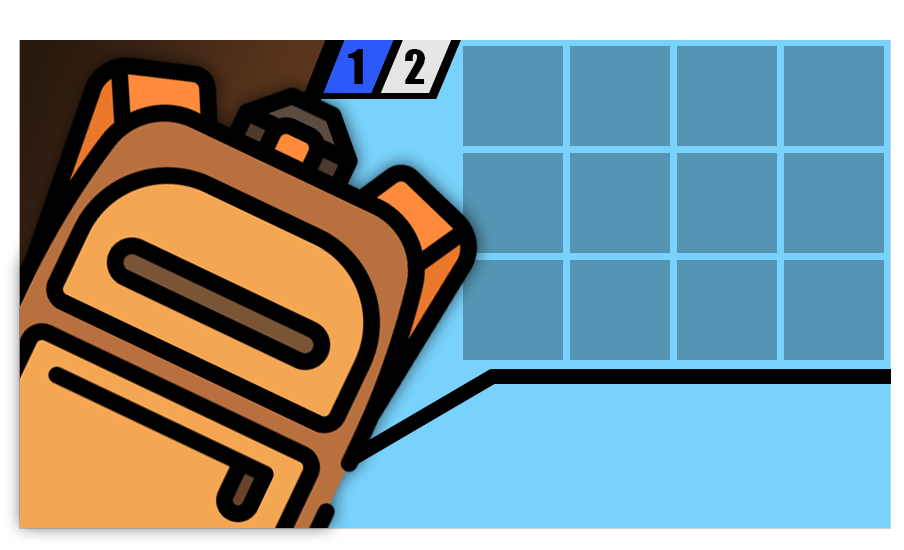
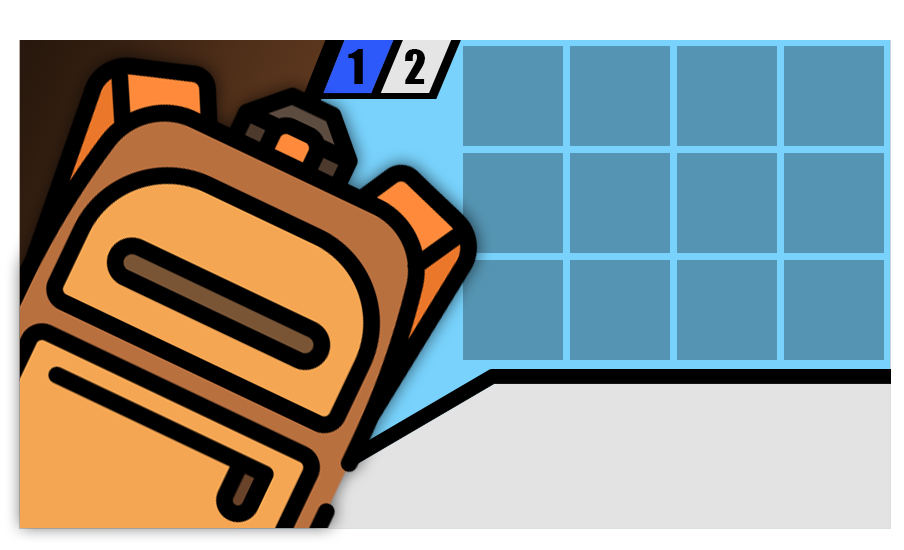
add description  item name for sac d'objets

Changed region(s): [[0.3407, 0.68, 0.9912, 0.9582]]

diff --git a/sac.py b/sac.py
@@ -1,4 +1,5 @@
 import pygame
+pygame.font.init()
 
 
 class SacIngamePanel:
@@ -13,6 +14,10 @@ class SacIngamePanel:
         self.page2_hover = pygame.image.load("assets/game/ingame_windows/Sac d'objets/page2_hover.png")
         self.page1_rect = pygame.Rect(331, 40, 52, 52)
         self.page2_rect = pygame.Rect(387, 40, 52, 52)
+
+        self.quantite_font = pygame.font.Font('assets/fonts/Impact.ttf', 30)
+        self.title_item_font = pygame.font.Font('assets/fonts/Impact.ttf', 45)
+        self.desc_item_font = pygame.font.Font('assets/fonts/Oswald-Regular.ttf', 20)
 
         self.ALL_EMP_RECT = {
             1: pygame.Rect(463, 46, 100, 100),
@@ -44,6 +49,7 @@ class SacIngamePanel:
             12: pygame.Rect(784, 260, 100, 100)
         }
         self.page = 1
+        self.selected_item = None
 
         self.emp_move_mode = False
         self.emp_moving = [False, False, False, False, False, False, False, False, False, False, False, False]
@@ -75,6 +81,18 @@ class SacIngamePanel:
         self.update_emp(surface, possouris, window_pos, 11)
         self.update_emp(surface, possouris, window_pos, 12)
         self.update_rect_pos(window_pos)
+
+        if self.selected_item is not None:
+            surface.blit(self.title_item_font.render(self.selected_item.name_to_blit.upper(), False, (0, 0, 0)),
+                         (window_pos[0] + (885-self.title_item_font.render(self.selected_item.name_to_blit.upper(), False, (0, 0, 0)).get_rect().w), window_pos[1] + 380))
+
+            item_desc_lines = self.reformate_item_desc(self.selected_item.description)
+            surface.blit(self.desc_item_font.render(str(item_desc_lines[0]), False, (20, 20, 20)),
+                         (window_pos[0] + (885-self.desc_item_font.render(str(item_desc_lines[0]), False, (0, 0, 0)).get_rect().w), window_pos[1] + 430))
+            surface.blit(self.desc_item_font.render(str(item_desc_lines[1]), False, (20, 20, 20)),
+                         (window_pos[0] + (885-self.desc_item_font.render(str(item_desc_lines[1]), False, (0, 0, 0)).get_rect().w), window_pos[1] + 455))
+            surface.blit(self.desc_item_font.render(str(item_desc_lines[2]), False, (20, 20, 20)),
+                         (window_pos[0] + (885-self.desc_item_font.render(str(item_desc_lines[2]), False, (0, 0, 0)).get_rect().w), window_pos[1] + 480))
 
     def update_rect_pos(self, window_pos):
         self.ALL_EMP_RECT = {
@@ -129,6 +147,7 @@ class SacIngamePanel:
                     self.emp_moving[i-1] = True
                     self.rel_possouris = [0, 0]
                     self.saved_posouris = possouris
+                    self.selected_item = current_page[i-1]
 
             if self.emp_move_mode and self.emp_moving[i-1]:
                 if not self.game.mouse_pressed[1]:
@@ -170,6 +189,13 @@ class SacIngamePanel:
         if self.page == 1:
             if self.game.player.sac_page1[i-1] is not None:
                 surface.blit(pygame.transform.scale(self.game.player.sac_page1[i-1].icon_image, (100, 100)), self.all_emp_rect[i])
+                if not self.game.player.sac_page1[i-1].quantite == 1 and self.game.player.sac_page1[i-1].quantite < 10:
+                    surface.blit(self.quantite_font.render(str(self.game.player.sac_page1[i-1].quantite), False, (255, 255, 255)), (self.all_emp_rect[i].x + 81, self.all_emp_rect[i].y + 65))
+                elif 10 <= self.game.player.sac_page1[i - 1].quantite < 100:
+                    surface.blit(self.quantite_font.render(str(self.game.player.sac_page1[i-1].quantite), False, (255, 255, 255)), (self.all_emp_rect[i].x + 68, self.all_emp_rect[i].y + 65))
+                elif self.game.player.sac_page1[i-1].quantite > 99:
+                    self.game.player.sac_page1[i-1].quantite = 99
+
         elif self.page == 2:
             if self.game.player.sac_page2[i-1] is not None:
                 surface.blit(pygame.transform.scale(self.game.player.sac_page2[i - 1].icon_image, (100, 100)),
@@ -189,3 +215,18 @@ class SacIngamePanel:
 
     def change_page(self, num):
         self.page = num
+
+    def reformate_item_desc(self, desc):
+        l1 = desc
+        l2 = ''
+        l3 = ''
+
+        while self.desc_item_font.render(l1, False, (0, 0, 0)).get_rect().w > 480:
+            l2 = l1.split()[-1] + ' ' + l2
+            l1 = l1[:-(len(l1.split()[-1])+1)]
+        while self.desc_item_font.render(l2, False, (0, 0, 0)).get_rect().w > 500:
+            l3 = l2.split()[-1] + ' ' + l3
+            l2 = l2[:-(len(l2.split()[-1])+1)]
+
+        return l1, l2, l3
+

diff --git a/objet.py b/objet.py
@@ -3,8 +3,56 @@ import pygame
 
 class Objet:
 
-    def __init__(self, name):
-        self.name = name[0].upper() + name[1:].lower()
+    def __init__(self, name, quantite=1):
+        self.name = name[0].upper() + name[1:]
+        self.name_to_blit = self.reformate_name(self.name)
         self.icon_image = pygame.image.load(f'assets/items/{self.name}.png')
+        self.quantite = int(quantite)
 
-        # self.classes = classes_list
+        self.line = self.find_item_line()
+
+        self.d_spawn_infos = self.line[1].split(':')
+        self.can_spawn_vs_d = int(self.d_spawn_infos[0])
+        self.rarety_vs_d = int(self.d_spawn_infos[1])
+        self.q_spawning_range = [int(self.d_spawn_infos[2].split('-')[0]),
+                                 int(self.d_spawn_infos[2].split('-')[1])]
+
+        self.categorie = self.line[2]
+        self.fonctionnement = self.line[3]
+
+        self.can_be_buy = int(self.line[4].split(':')[0])
+        if self.can_be_buy:
+            self.buy_price = int(self.line[4].split(':')[1])
+
+        self.can_be_sell = int(self.line[5].split(':')[0])
+        if self.can_be_sell:
+            if self.line[5].split(':')[1] == 'v':
+                self.variable_sell_price = True
+                self.sell_price = [int(self.line[5].split(':')[2].split('-')[0]), int(self.line[5].split(':')[2].split('-')[1])]
+            else:
+                self.variable_sell_price = False
+                self.sell_price = int(self.line[5].split(':')[1])
+
+        self.description = self.line[6][:-1]
+
+    def find_item_line(self):
+        with open('all_objets.txt') as file:
+            for line in file.readlines():
+                if str(line.split()[0]) == str(self.name):
+                    return line.split(maxsplit=6)
+
+    def reformate_name(self, name):
+        reformated_name = ''
+
+        if name not in ['Collier_agathe']:
+            for c in name:
+                if c == '_':
+                    reformated_name += ' '
+                else:
+                    reformated_name += c
+
+        else:
+            if name == 'Collier_agathe':
+                reformated_name = "Collier d'Agathe"
+
+        return reformated_name

diff --git a/main.py b/main.py
@@ -158,9 +158,8 @@ while running:
             if event.key == pygame.K_p:
                 game.classic_panel.change_pk_place(0, 1)
             elif event.key == pygame.K_o:
-                game.classic_panel.ingame_window.update_name("Sac d'objets")
-                game.classic_panel.ingame_window.open()
-                game.classic_panel.ingame_window.maximize()
+                if game.player.sac_page1[6] is not None:
+                    game.player.sac_page1[6].quantite += 1
 
             if game.classic_panel.change_player_name_mode:
                 if event.key == pygame.K_RETURN:

diff --git a/player.py b/player.py
@@ -16,8 +16,10 @@ class Player:
                      None,
                      None,
                      None]
-        self.sac_page1 = [None, None, None, None, None, None, Objet('CD'), None, None, None, None, None]
+        self.sac_page1 = [Objet('Fer'), Objet('Mouchoir_Soie'), None, Objet('Casquette_de_Nathan'), None, None, Objet('Collier_Agathe'), None, None, None, None, None]
         self.sac_page2 = [None, None, None, None, None, None, None, None, None, None, None, None]
+
+        self.money = 0
 
     def evol_pk(self, i=0):
         if self.team[i] is not None:
